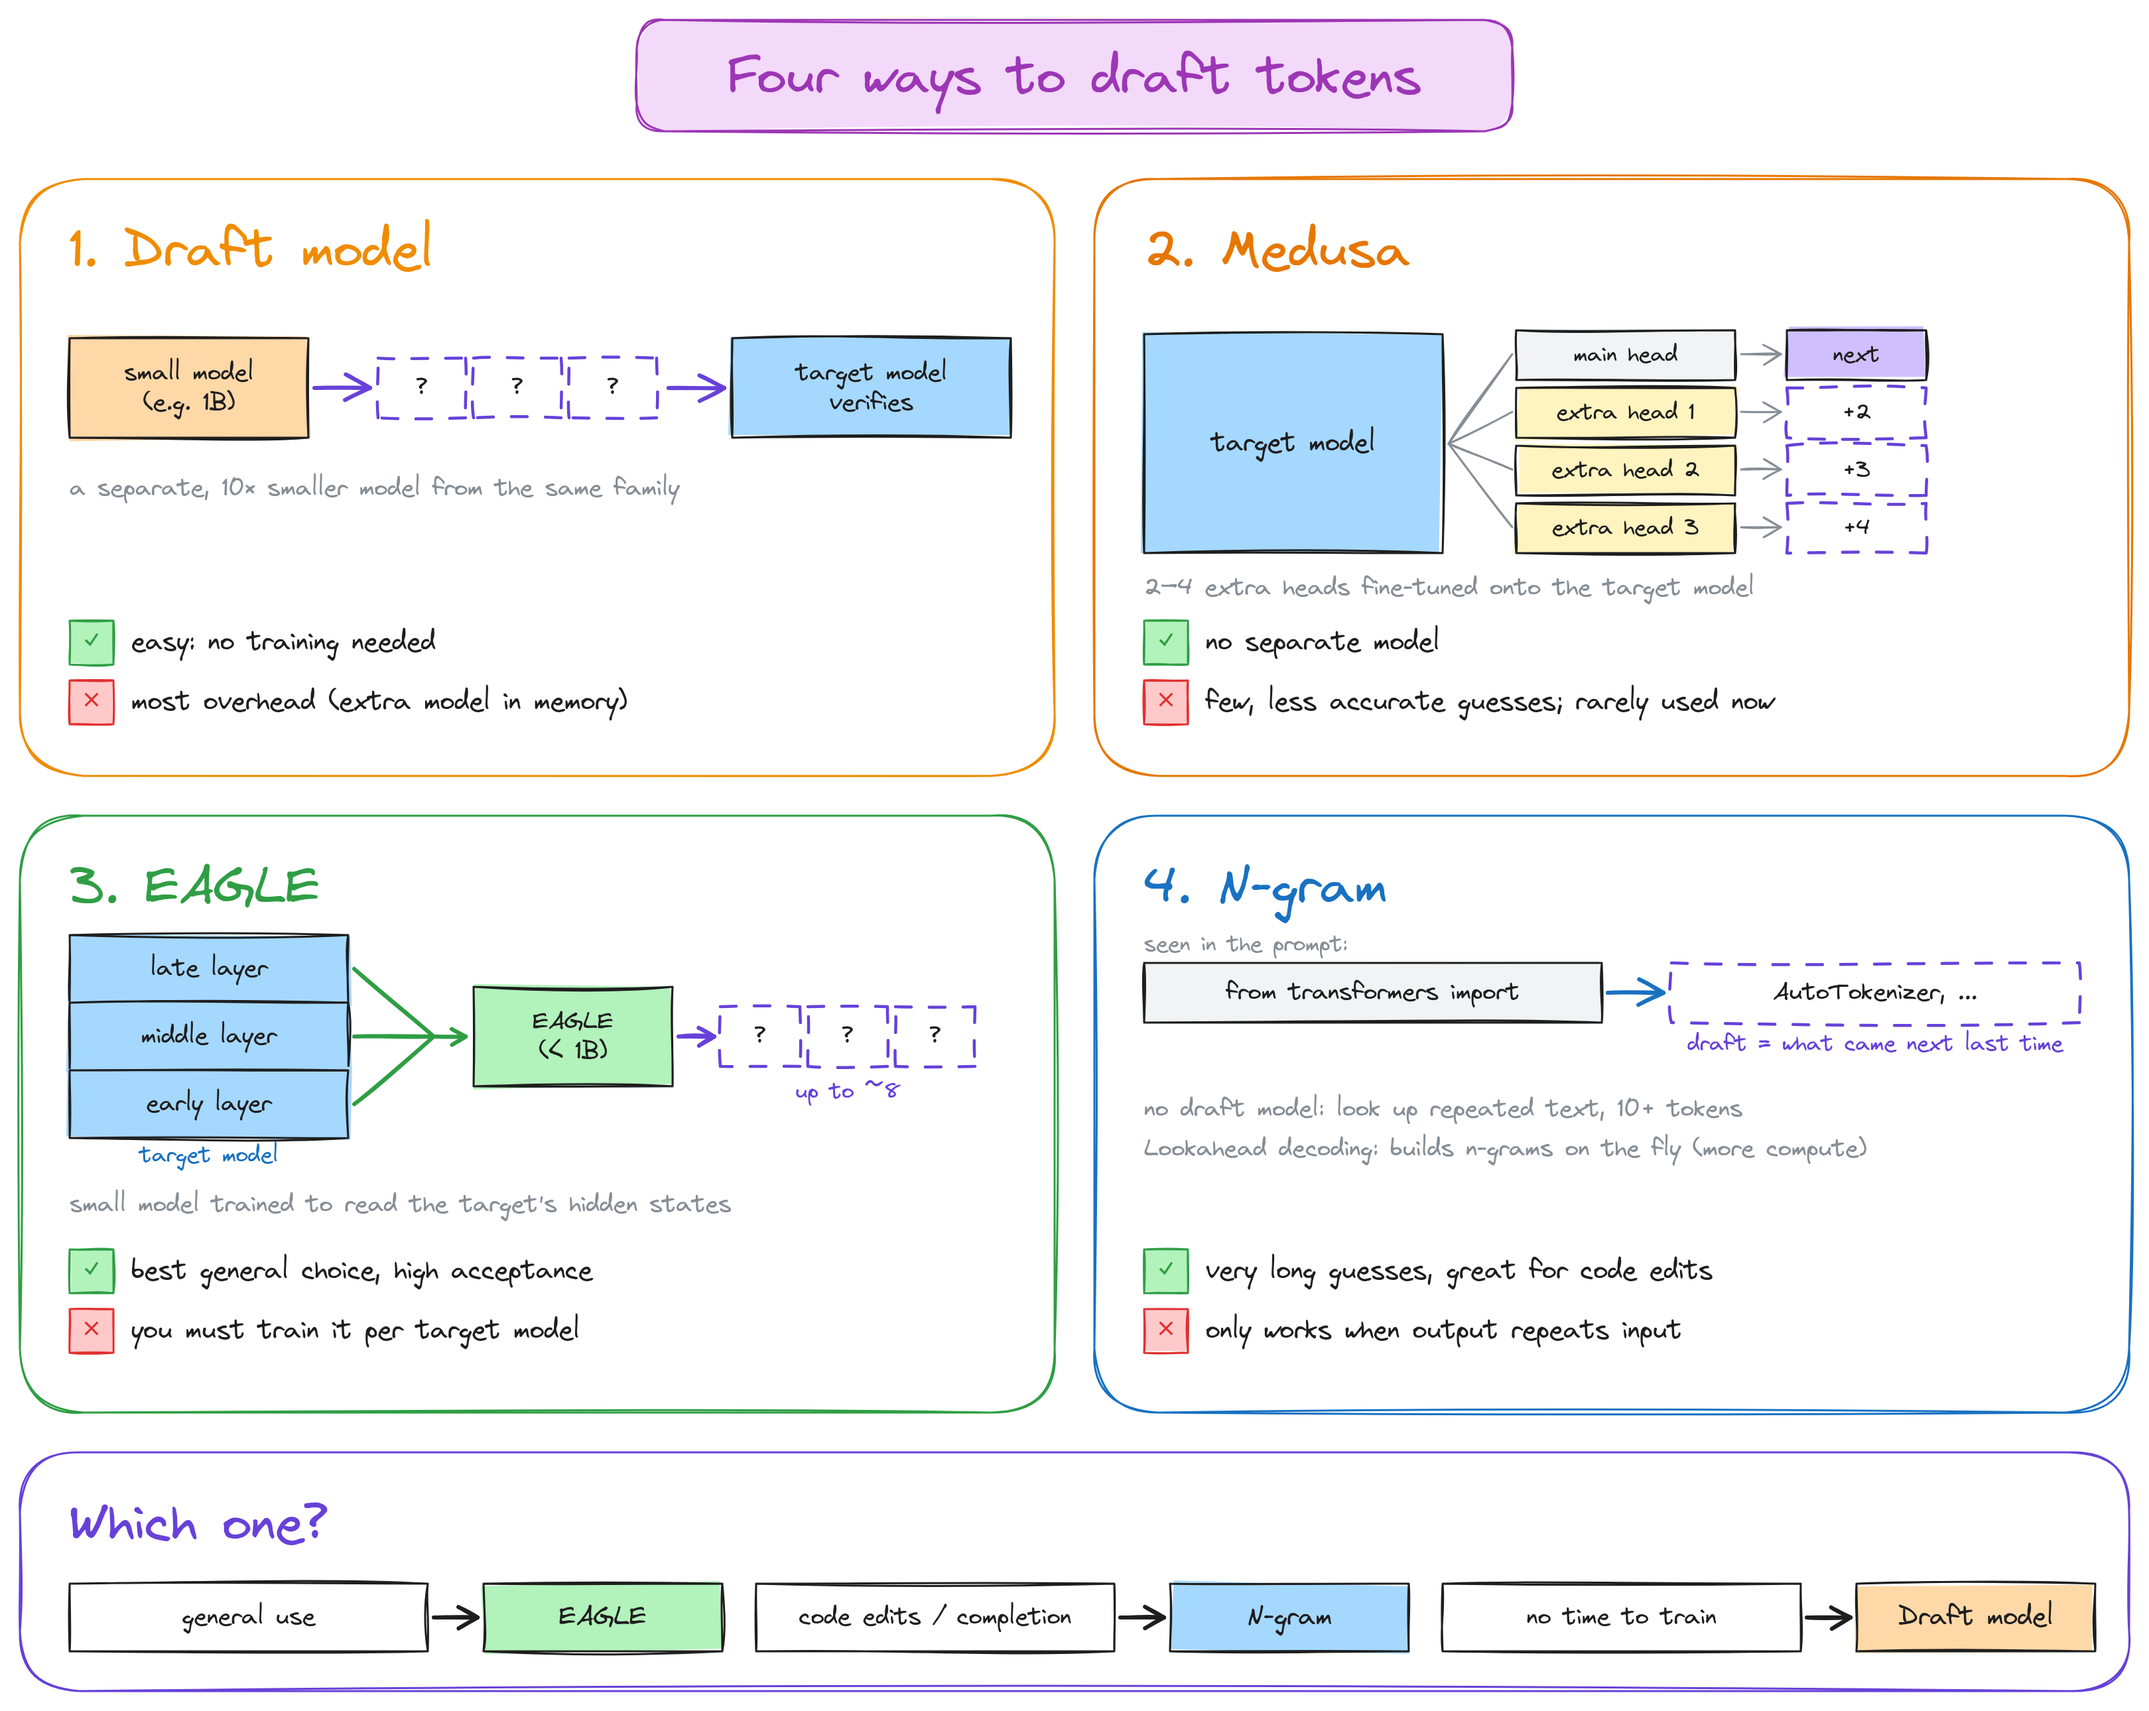
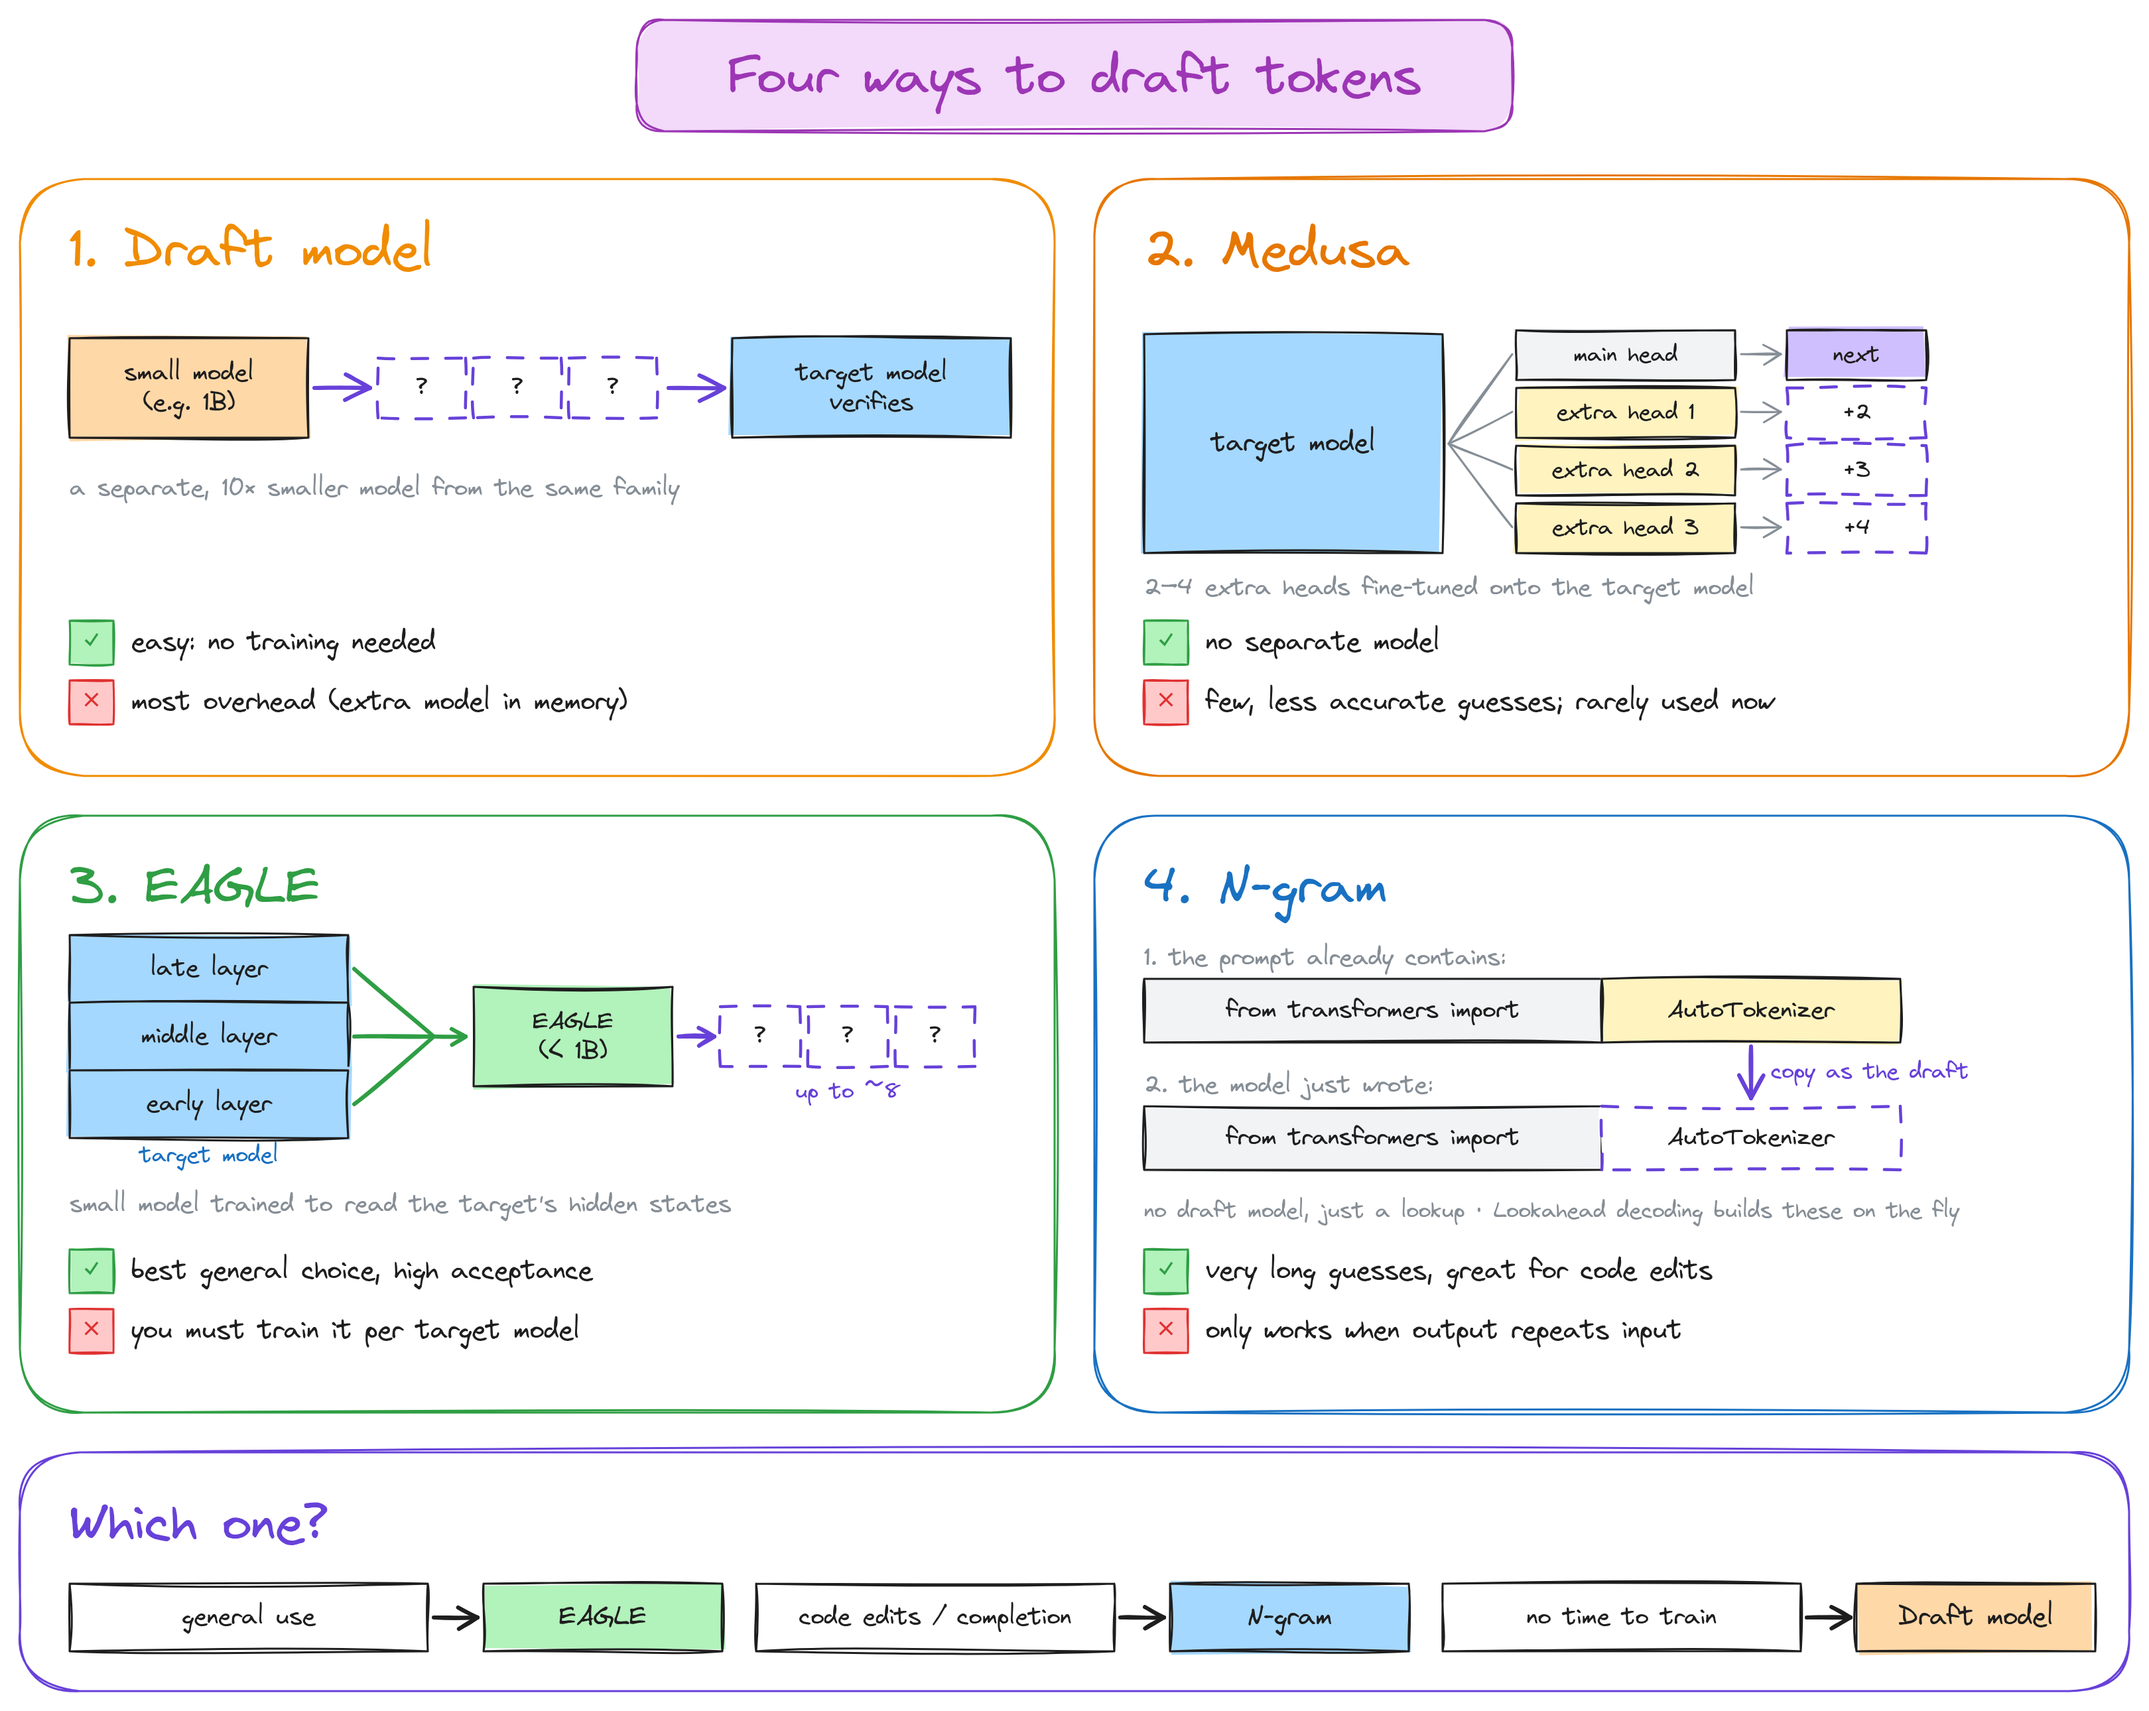
📝 update README.md: day 9

diff --git a/README.md b/README.md
@@ -336,6 +336,8 @@
 
 - as we saw before, the decode phase generate tokens one at a time, and the main bottleneck is memory bandwidth.
 
+- since decode is memory-bound, some gpu compute sits idle, so we can take advantage of that spare capacity to speculate :)
+
 - the idea behind speculative decoding is to use a smaller, faster model to guess a few tokens ahead. then our target model (bigger model), validates those guesses. checking guesses is much cheaper than generating new ones, like checking a sudoku solution instead of solving it.
 
 - so the small model we use to generate token guesses is called the "draft model", or with a bit more "affection", the speculator... :)
@@ -369,7 +371,7 @@
 
 - medusa: extra heads added to the target model itself, instead of one decoding head we have multiples. important medusa is not widely use in production.
 
-- eagle: a draft model trained to take hidden states as input and generate speculative tokens as output. eagle is the most common speculation method for general llm serving. it gets a high acceptance rate from a tiny model: less than 1b params.
+- eagle: a draft model trained to take hidden states as input and generate speculative tokens as output. eagle is a really popular speculation method for general llm serving. it gets a high acceptance rate from a tiny model: less than 1b params.
 
 - n-gram: instead of using any model at all, is basically a loopup table built from text the model has already seen. 
 
